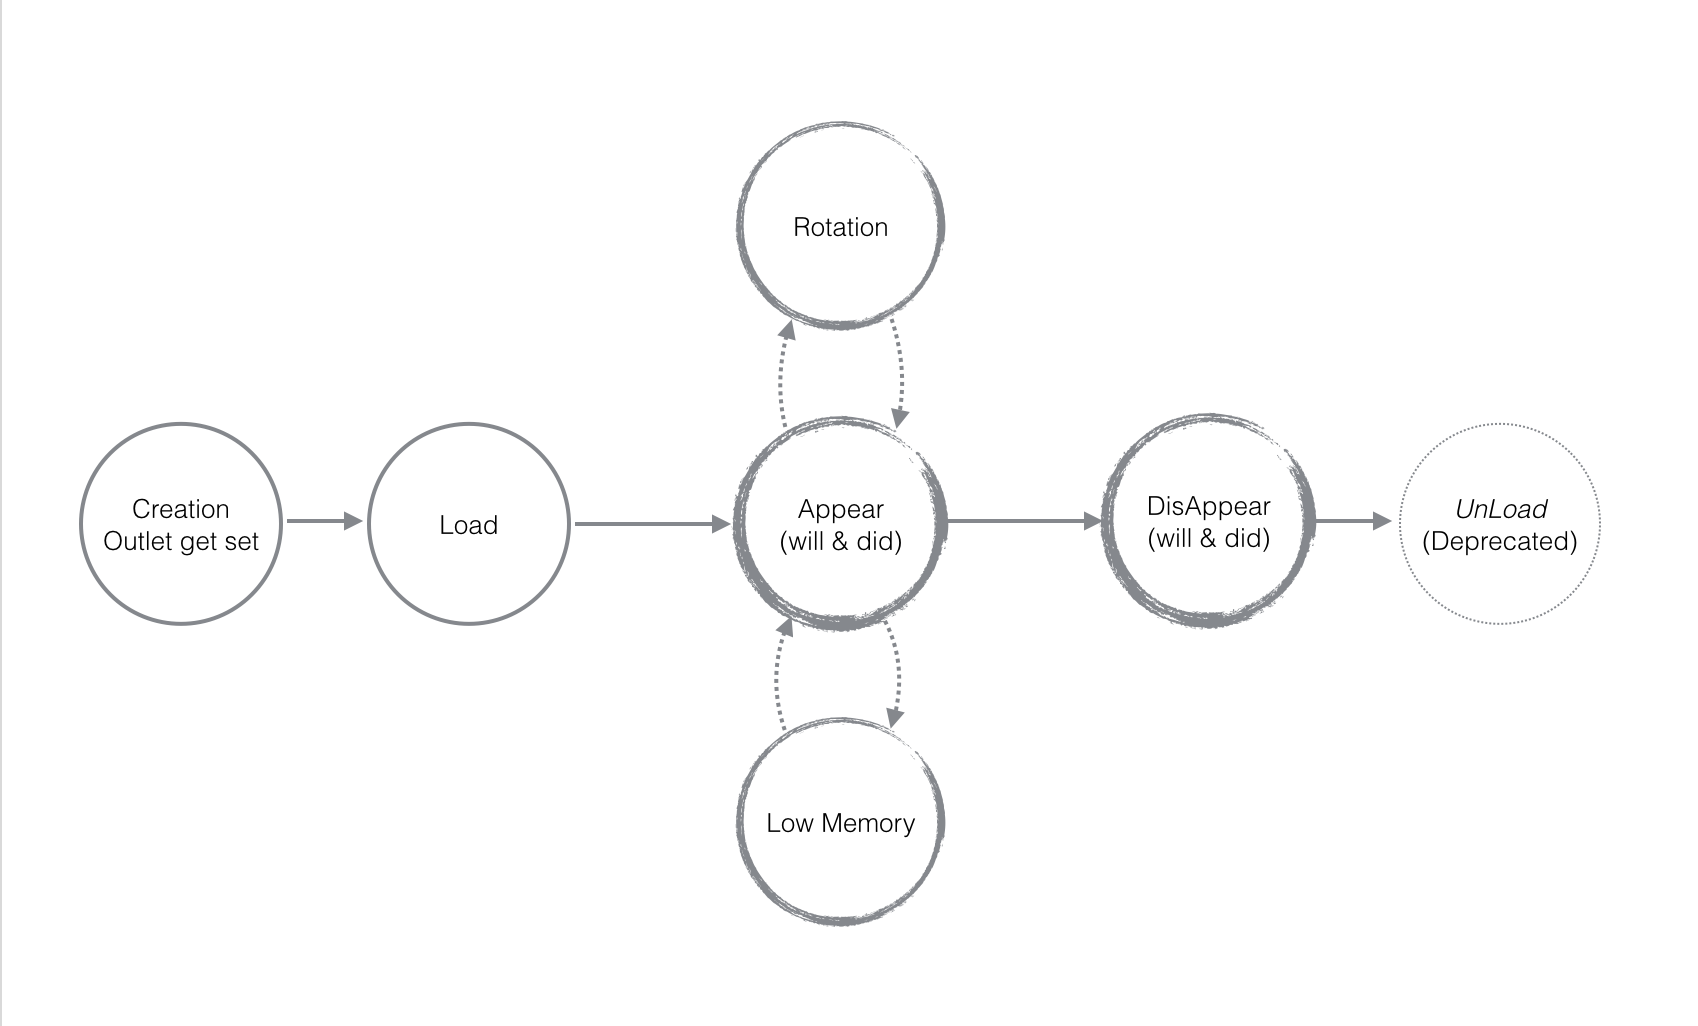
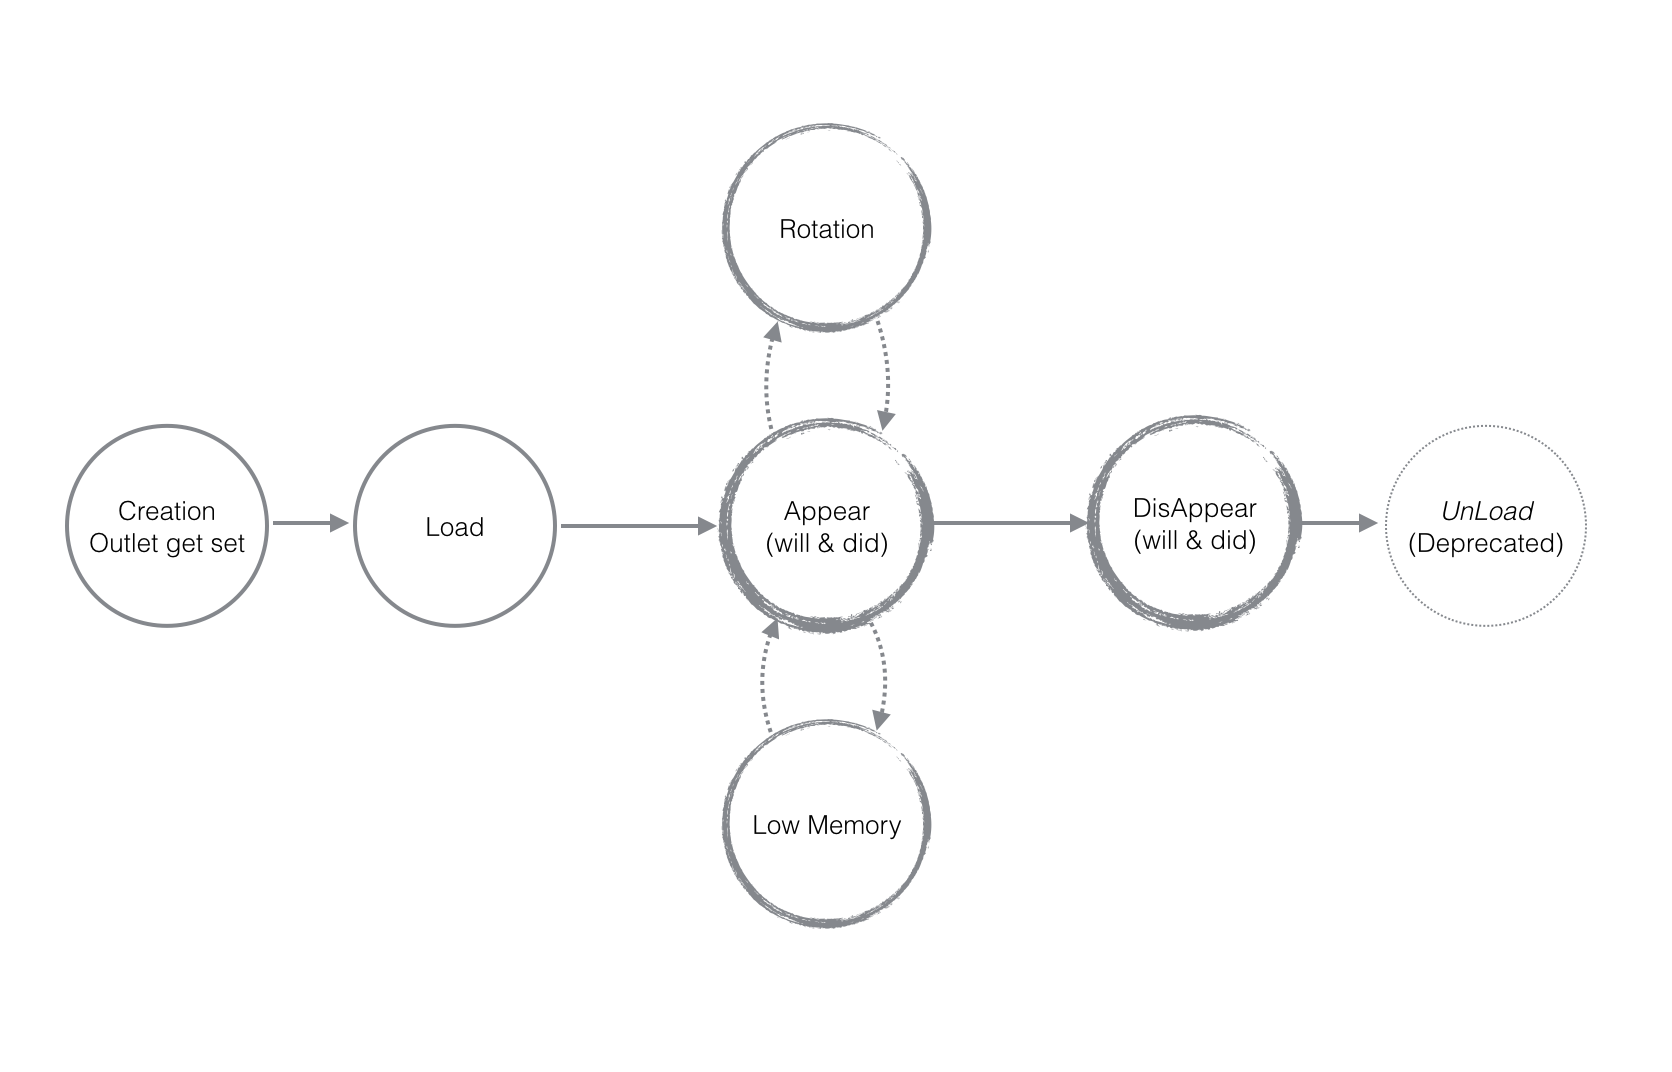
use other UIViewControllerLifecycle pic

diff --git a/hacks/ViewControllerLifecycle.md b/hacks/ViewControllerLifecycle.md
@@ -113,6 +113,8 @@ The application allows rotation to that orientation (defined in Info.plist file)
 
 ### 详细的生命周期图
 
+![uiviewcontroller_lifecycle](uiviewcontroller_lifecycle.jpg)
+
 非常有爱的环形似乎更能简单清晰的讲述整个生命周期将会是个appear、disappear反复出现的过程，[强烈推荐](https://rdkw.wordpress.com/2013/02/24/ios-uiviewcontroller-lifecycle/)。
 
 
